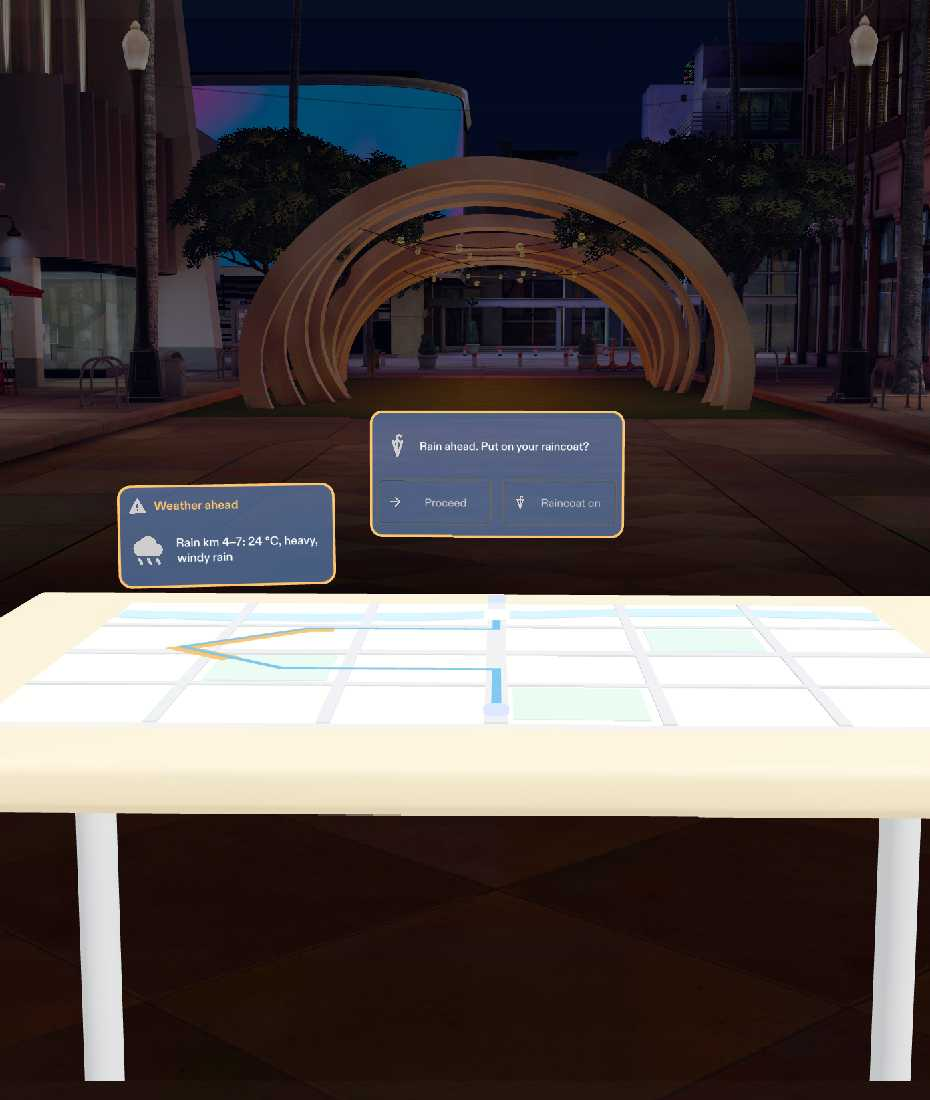
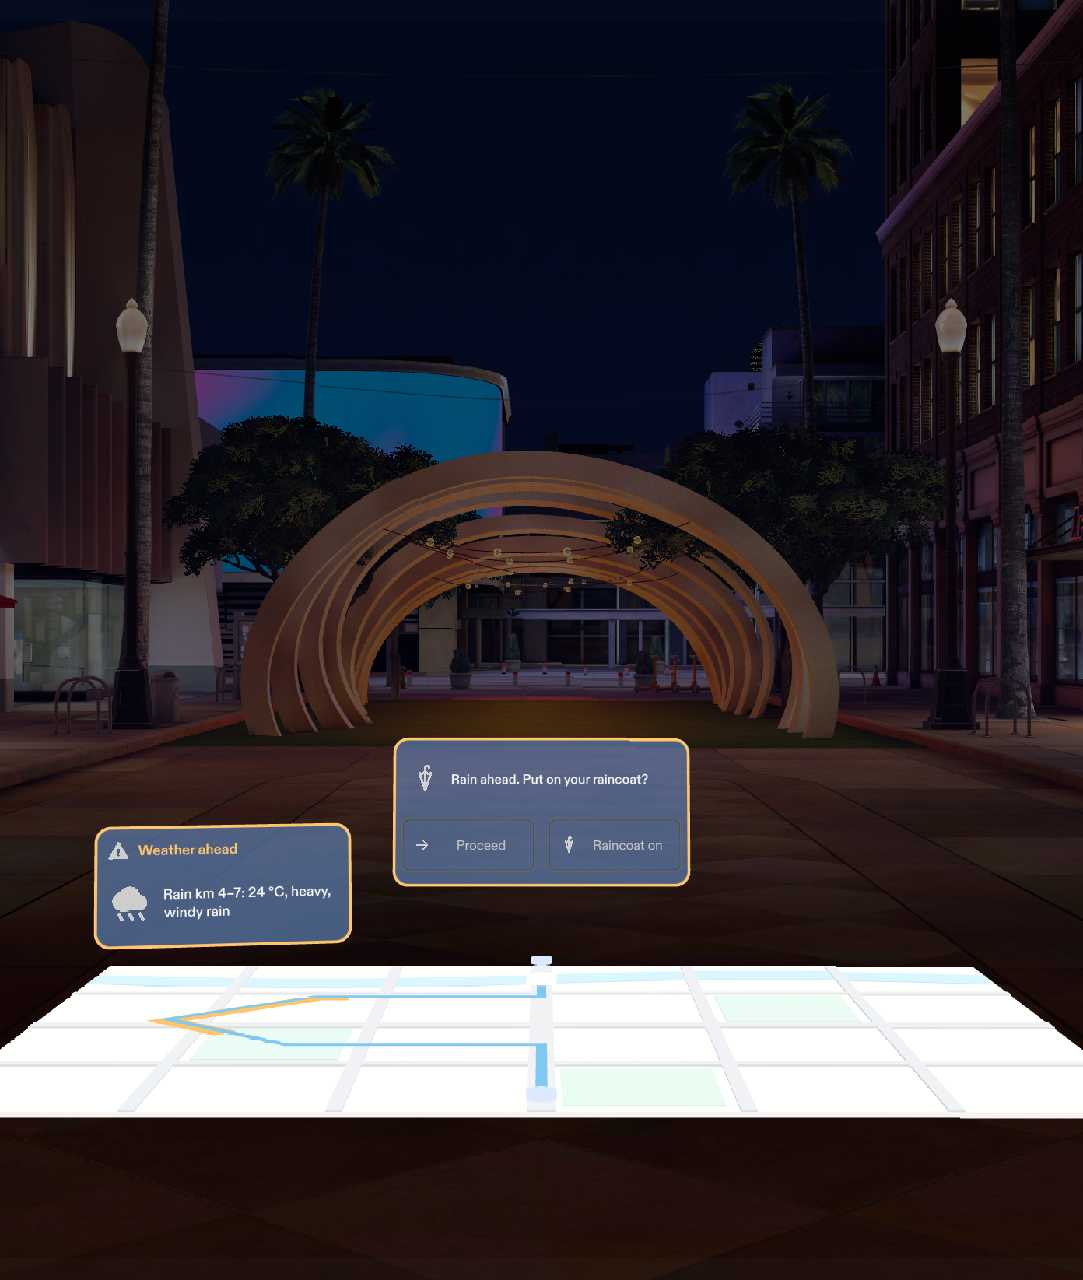
docs: update README and screenshots for the table and floating map
The README now says the table shows only while planning and the map
floats when stopped, lists C6 and the extended C2 and C4, and splits
revision 1 in the roadmap into what is done and what is not built yet.

Files changed:
- README.md: status, walkthrough, tests table (C6), simulator stand-in table, script table, roadmap
- docs/media/stopped-crash.jpg: retaken, no table under the map
- docs/media/raincoat-reminder.jpg: retaken, no table under the map
- docs/media/stopped-rain.jpg: removed; the README uses stopped-floating-map.jpg

diff --git a/README.md b/README.md
@@ -6,7 +6,8 @@
 
 Built for **Learn AR with SPECS, Round 2** (Devpost, sponsored by Snap Inc.). Planned with Devpost's `plan-lens` skill, built by an AI coding agent through Snap's CLAD plugin and the Lens Studio MCP, and demonstrated in Lens Studio's Interactive Preview. No Spectacles hardware is needed.
 
-> **Status: the Lens is built and all five LEAF tests pass in the Lens Studio Preview.**
+> **Status: the Lens is built and all six LEAF tests (C1 to C6) pass in the Lens Studio Preview.**
+> Revision 1 is partly done: the table now shows only while planning, and the map floats when you stop. The progress marks and the route on the road ahead are not built yet (see the [Roadmap](#roadmap)).
 > It has not been run on Spectacles hardware (none is available), and the demo video is not recorded yet. Everything below was run in the Preview unless it is marked _unverified_.
 
 ## Contents
@@ -31,11 +32,13 @@ Built for **Learn AR with SPECS, Round 2** (Devpost, sponsored by Snap Inc.). Pl
 
 The demo tells one day in two trips that reuse the same map, alert and stop:
 
-1. **Morning, at home.** The map on the table shows the trip to the office, with two routes compared by time, fuel and weather. The rider picks one.
-2. **On the road.** Nothing on screen. Then a chime and a short sentence: a crash ahead has stalled traffic, pull over to see options. The rider pulls over, sees the crash stretch highlighted and the faster reroute, pinches it, and arrives on time.
+1. **Morning, at home.** A table is in the room and the map on it shows the trip to the office, with two routes compared by time, fuel and weather. The rider picks one.
+2. **On the road.** Nothing on screen, and no table. Then a chime and a short sentence: a crash ahead has stalled traffic, pull over to see options. The rider pulls over, and the map floats in front of them with the crash stretch highlighted and the faster reroute. They pinch it and arrive on time.
 3. **Evening, going home.** A rain alert comes before the rain zone. The rider pulls over, sees where the rain is and how bad it is, and either takes the dry reroute or stays on the route and is reminded to put on a raincoat.
 
 The Lens only ever shows content in two states, for safety: when the rider is planning and when they have stopped. While riding, it is silent except for short alerts.
+
+The virtual table is part of that rule. It is in the room for the whole Planning state (at the start, while the clarifying question is shown, and under the map) and hidden in every other state. When the rider stops, there is no table: the same map floats where it was, a little below eye level.
 
 ```mermaid
 stateDiagram-v2
@@ -59,9 +62,13 @@ All screenshots are from Lens Studio's Interactive Preview (SPECS 27 device simu
 
 ![Planning view: the city map on the table with route A in blue and route B in green, a dot on each route, and label cards above.](docs/media/planning-map.jpg)
 
-Pressing **Go to office** asks one clarifying question, *"Which office: Main office or Branch office?"*, and then the map appears on a virtual table about 1.1 m in front of the rider, a little below eye level. Each route has a big dot to pinch and a label card with time, fuel and weather. The route with the best time (then the least fuel) is marked **Recommended**. Pinching a dot sets the route, plays a soft confirmation tone and hides the map.
+The virtual table is already there when the Lens starts. Pressing **Go to office** asks one clarifying question, *"Which office: Main office or Branch office?"*, with the table still in view, and then the map appears on the table about 1.1 m in front of the rider, a little below eye level. Each route has a big dot to pinch and a label card with time, fuel and weather. The route with the best time (then the least fuel) is marked **Recommended**. Pinching a dot sets the route, plays a soft confirmation tone and hides the map and the table.
 
 ### Riding and the alert
+
+![Riding view: the same street with no table, no map and no cards. Nothing from the Lens is in view.](docs/media/riding-no-table.jpg)
+
+While riding, the view is empty, including the table.
 
 ![The rain alert icon: a small white cloud icon floating low and to the right of the centre of view, over the road.](docs/media/alert-icon.jpg)
 
@@ -71,11 +78,11 @@ While riding, nothing from the Lens is in view. When the route reaches a problem
 
 ![Stopped view: route A's crash stretch highlighted in coral, a "Problem ahead" card reading "Crash, traffic stalled, +18 min" above it, route A at 52 min (+18) and route B marked Recommended at 40 min.](docs/media/stopped-crash.jpg)
 
-Pressing **I've stopped** brings back the map with the full picture: the rest of the route, the crash stretch highlighted in coral, a card above it (*"Crash, traffic stalled, +18 min"*), and both options with updated numbers. Route B is now recommended. Pinching route B's dot says *"New route set"* and hides the map. Riding on to the end ends with *"You've arrived, on time."*
+Pressing **I've stopped** brings back the map, floating where it was with no table under it, with the full picture: the rest of the route, the crash stretch highlighted in coral, a card above it (*"Crash, traffic stalled, +18 min"*), and both options with updated numbers. Route B is now recommended. Pinching route B's dot says *"New route set"* and hides the map. Riding on to the end ends with *"You've arrived, on time."*
 
 ### Evening: rain ahead and the raincoat reminder
 
-![Stopped view on the evening trip: route A's rain stretch highlighted in amber, a "Weather ahead" card reading "Rain km 4–7: 24 °C, heavy, windy rain", route A marked Recommended with windy rain, and route B at 48 min (+12), dry.](docs/media/stopped-rain.jpg)
+![Stopped view on the evening trip: route A's rain stretch highlighted in amber, a "Weather ahead" card reading "Rain km 4–7: 24 °C, heavy, windy rain", route A marked Recommended with windy rain, and route B at 48 min (+12), dry. There is no table: the map floats.](docs/media/stopped-floating-map.jpg)
 
 On the way home, the alert is *"Rain on your route in 10 minutes. Pull over to see options."* Stopped, the rider sees the rain stretch in amber with its temperature, intensity and type, and a dry reroute that costs 12 minutes more.
 
@@ -97,7 +104,7 @@ The Preview has no road, no GPS and no microphone, so a separate panel to the ri
 | Saying "route A" / "route B" | **Choose route A** / **Choose route B** buttons, next to the pinchable dots |
 | Live traffic, weather and routing | Hard-coded sample data (see below) |
 | Spoken alerts and confirmations | The caption line at the bottom of the panel |
-| A real table, or floating 1 m ahead without one | A virtual table |
+| A real table or wall at home, or the map floating about 1 m ahead without one | A virtual table for the planning view at home. At the roadside the map floats, with no table |
 
 The sample data lives in [`Assets/Scripts/TrafficInsightTripData.ts`](Assets/Scripts/TrafficInsightTripData.ts):
 
@@ -117,6 +124,9 @@ Each done criterion in the design brief has one [LEAF](https://developers.snap.c
 | C3 | At the crash point: chime, alert sentence as a caption, a small icon low and off-centre, gone after about 2 s | **Pass** (icon measured 16 cm below and 10 cm right of the line of sight, 1 m ahead; gone after about 1.9 s) |
 | C4 | "I've stopped" shows the crash stretch highlighted, the delay card and route B; pinching B says "New route set" and riding on ends with the on-time arrival line | **Pass** |
 | C5 | Evening: rain stretch and a card with temperature, intensity and type; picking the rainy route shows the raincoat reminder; Proceed or Raincoat on hides it | **Pass** (both buttons tested) |
+| C6 | The virtual table is visible during the whole Planning state and hidden in every other state | **Pass** (checked at the start, during the clarifying question, with the map, then Riding, Alerted, Stopped, Arrived, and Planning again after "Go home") |
+
+C2 and C4 were extended for the table: C2 also checks that the table is off while riding, and C4 checks that the map floats with no table when stopped. Each check reads both the snapshot flag and the real `MapTable` object in the scene.
 
 What the tests cannot check, and so remains unverified:
 
@@ -124,12 +134,12 @@ What the tests cannot check, and so remains unverified:
 - **The icon's size on screen and its fade.** Its position and timing are tested; its look was checked by eye in the screenshot above.
 - **Reach and comfort on real glasses**, and anything about riding a real motorcycle.
 
-To run them: open the project in Lens Studio, open the LEAF panel, and run C1 to C5 against the Preview.
+To run them: open the project in Lens Studio, open the LEAF panel, and run C1 to C6 against the Preview.
 
 ## Why it belongs on glasses
 
 - **Hands and eyes stay on the road.** A rider's hands are on the handlebars and their eyes must stay ahead, so a phone is not an option while moving. The Lens speaks instead of showing, and only shows when the rider has stopped.
-- **The routes are laid out in your space.** When stopped, the options sit on the surface in front of you at a readable size, side by side, instead of on a small flat map.
+- **The routes are laid out in your space.** When stopped, the options float in front of you at a readable size, side by side, instead of on a small flat map.
 
 ## How this project is built
 
@@ -166,9 +176,9 @@ Every press goes to one place, `TrafficInsightState`, a plain state machine with
 
 | Script | Role |
 |---|---|
-| `TrafficInsightState.ts` | The five states and every transition |
+| `TrafficInsightState.ts` | The five states, every transition, and which parts are visible in each (including the table) |
 | `TrafficInsightTripData.ts` | Sample routes per trip and the "Recommended" rule |
-| `TrafficInsightMain.ts` | Connects input to the state, redraws the views, runs the 2 s alert timer |
+| `TrafficInsightMain.ts` | Connects input to the state, redraws the views (and shows or hides the table), runs the 2 s alert timer |
 | `TrafficInsightRouteMap.ts` | Builds the route lines, problem highlight and pinchable dots at runtime |
 | `TrafficInsightTrafficLensUI.ts` | The Lens layer: label cards, problem card, raincoat reminder, alert icon (UI Kit) |
 | `TrafficInsightRideSimulatorUI.ts` | The demo panel (UI Kit) |
@@ -198,7 +208,7 @@ These changed a default number from the brief, or settled something the brief le
 |---|---|
 | `TrafficInsight.esproj` | The Lens Studio project file |
 | `Assets/Scripts/` | The Lens's TypeScript components (see [Inside the Lens](#inside-the-lens)) |
-| `Assets/Tests/` | LEAF scenarios C1 to C5 and their shared driver |
+| `Assets/Tests/` | LEAF scenarios C1 to C6 and their shared driver |
 | `Assets/GeneratedMeshes/`, `Assets/GeneratedSFX/` | The table and city map models and the four sound effects, all made in code (no third-party assets) |
 | `Assets/Icons/`, `Assets/Materials/` | Material icons and the route line material |
 | `Packages/` | Spectacles Interaction Kit (SIK), UI Kit, Motion and Icons from the Base Template; LEAF; and the Lens Studio preview-agent helpers. Stored with Git LFS |
@@ -277,7 +287,9 @@ Problems that came up while setting up and building this project on Windows 11. 
 - [x] Run `plan-lens` and approve `devpost/design-brief.md`
 - [x] Build with CLAD and test with LEAF (C1 to C5 pass in the Preview)
 - [x] Screenshots in `docs/media/` and the feature walkthrough
-- [ ] Revision 1: no table while riding, a floating map when stopped, progress along the path, and the route marked on the road ahead
+- [x] Revision 1, part 1: the table shows only while planning, and the map floats when stopped (C6 added; C1 to C6 pass)
+- [ ] Revision 1, part 2: progress along the path (the ridden part dim, a "you are here" marker, a progress card)
+- [ ] Revision 1, part 3: the route marked on the road ahead (a mock street with pinchable route lines)
 - [ ] Judge in the Preview and iterate
 - [ ] Parked for later: a brief glance at the route while riding (see [docs/backlog.md](docs/backlog.md))
 - [ ] Demo video and Devpost submission (deadline: Dec 7, 5:00 PM ET)
